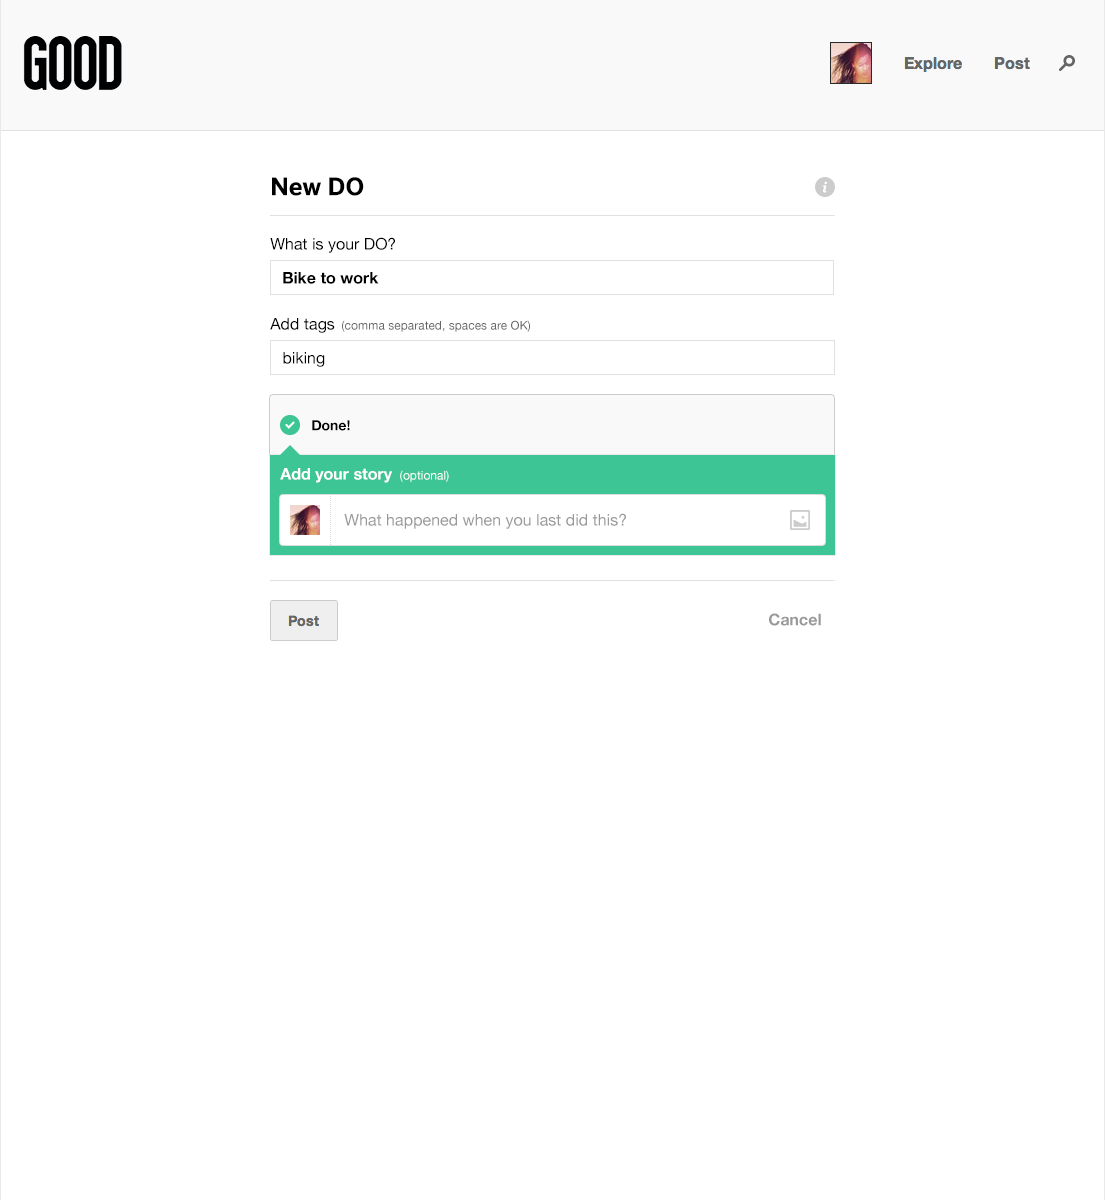
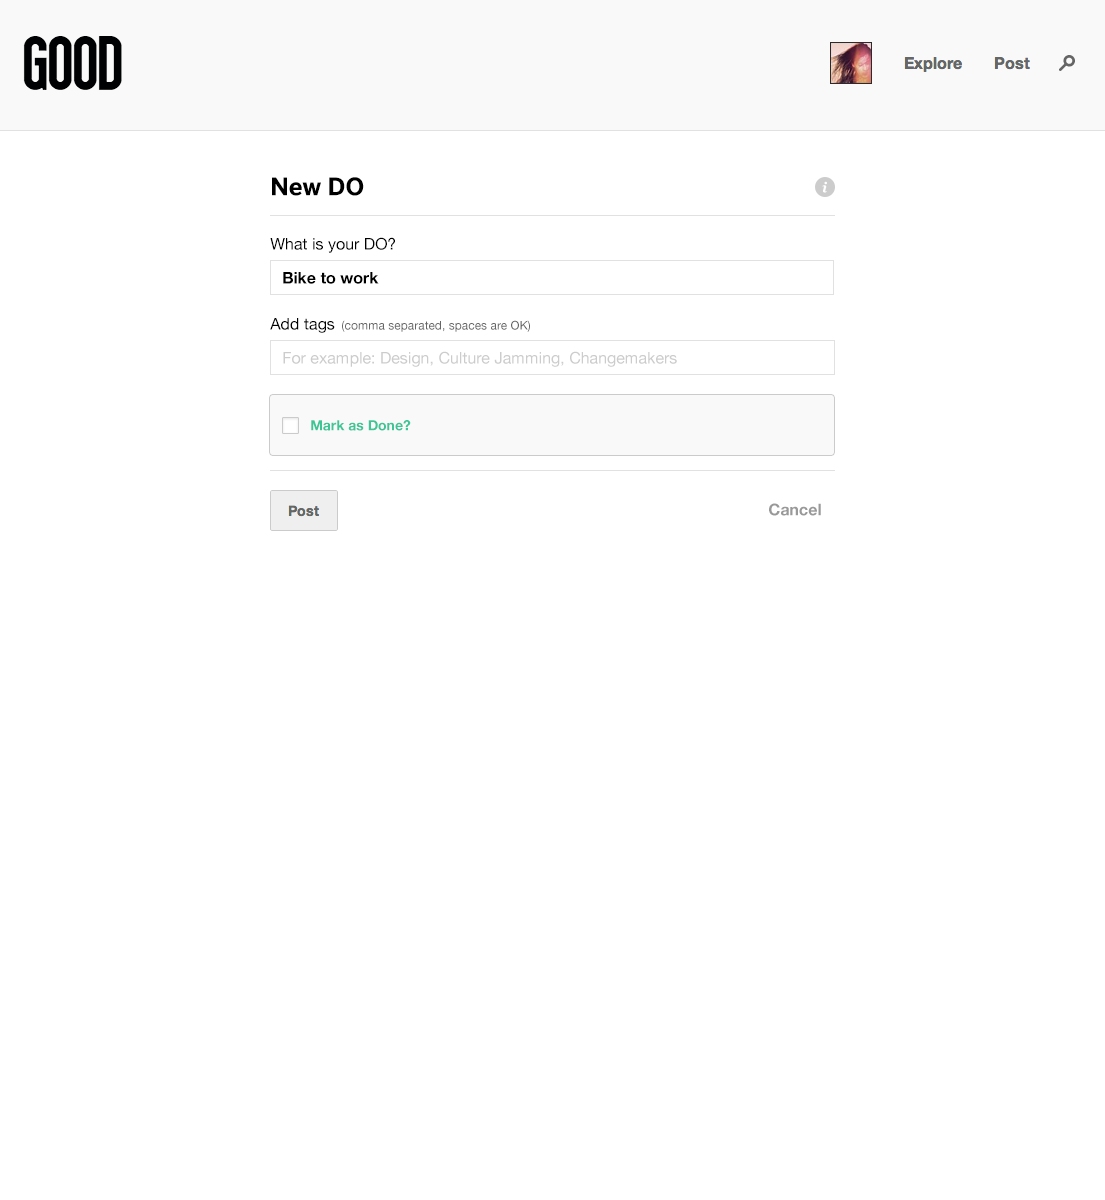
tweaks to do creation user flow test

diff --git a/do-creation-2/form-with-story.html b/do-creation-2/form-with-story.html
@@ -47,7 +47,7 @@
 </head>
 <body style="margin:0 auto; width: 1105px;">
   <div style="margin: 0; width: 1105px;">
-		<a href="do-after-creation.html"><img src="img/do-creation-4.png"/></a>
+		<a href="do-after-creation.html"><img src="img/do-creation-6.png"/></a>
 	</div>
 </body>
 </html>

diff --git a/do-creation-2/form-default.html b/do-creation-2/form-default.html
@@ -47,7 +47,7 @@
 </head>
 <body style="margin:0 auto; width: 1105px;">
   <div style="margin: 0; width: 1105px;">
-		<a href="form-with-content.html"><img src="img/do-creation-2.png"/></a>
+		<a href="form-with-title.html"><img src="img/do-creation-2.png"/></a>
 	</div>
 </body>
 </html>

diff --git a/do-creation-2/form-with-tags.html b/do-creation-2/form-with-tags.html
@@ -47,7 +47,7 @@
 </head>
 <body style="margin:0 auto; width: 1105px;">
   <div style="margin: 0; width: 1105px;">
-		<a href="form-with-story.html"><img src="img/do-creation-3.png"/></a>
+		<a href="form-marked-done.html"><img src="img/do-creation-4.png"/></a>
 	</div>
 </body>
 </html>

diff --git a/do-creation-2/form-marked-done.html b/do-creation-2/form-marked-done.html
@@ -47,7 +47,7 @@
 </head>
 <body style="margin:0 auto; width: 1105px;">
   <div style="margin: 0; width: 1105px;">
-		<img src="img/do-creation-7.png"/>
+		<a href="form-with-story.html"><img src="img/do-creation-5.png"/></a>
 	</div>
 </body>
 </html>

diff --git a/do-creation-2/form-with-title.html b/do-creation-2/form-with-title.html
@@ -47,7 +47,7 @@
 </head>
 <body style="margin:0 auto; width: 1105px;">
   <div style="margin: 0; width: 1105px;">
-		<img src="img/do-creation-7.png"/>
+		<a href="form-with-tags.html"><img src="img/do-creation-3.png"/></a>
 	</div>
 </body>
 </html>
